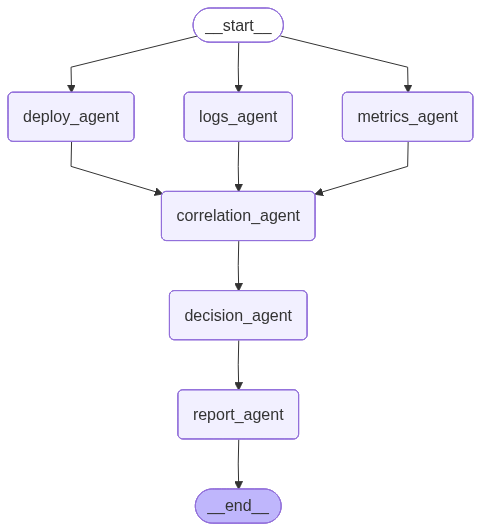
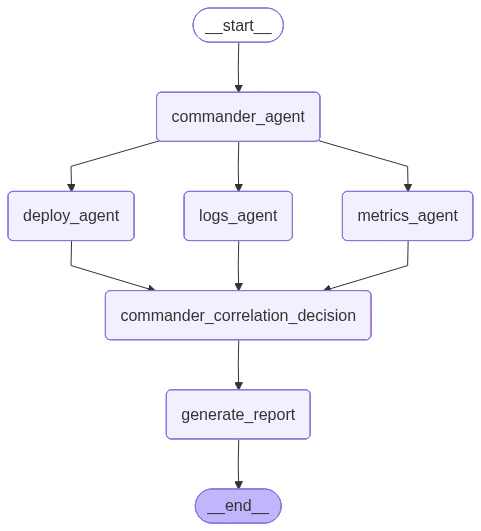
Final updates to agents, graph, and documentation

diff --git a/app/graph.py b/app/graph.py
@@ -20,6 +20,7 @@ class IncidentState(BaseModel):
     logs_data: List[Dict[str, Any]]
     deploy_data: List[Dict[str, Any]]
     alerts_data: List[Dict[str, Any]]
+    investigation_plan: str = ""
     metrics_analysis: str = ""
     logs_analysis: str = ""
     deploy_analysis: str = ""
@@ -29,33 +30,56 @@ class IncidentState(BaseModel):
     report: str = ""
 
 # Agent functions
-def start_analysis(state: IncidentState) -> IncidentState:
-    """Entry point that starts parallel analysis"""
-    return state
-
-def metrics_agent(state: IncidentState) -> IncidentState:
-    """Analyze metrics data using LLM"""
-    prompt = f"""
-    Analyze the following metrics data for anomalies. Look for spikes in latency, high CPU/memory usage, or drops in requests per second.
-    Data: {state.metrics_data}
+def commander_agent(state: IncidentState) -> IncidentState:
+    """Commander Agent: The Orchestrator - Evaluates alerts, develops plan, coordinates investigation"""
+    alerts = state.alerts_data
     
-    Provide a detailed analysis of any anomalies found, including timestamps and severity.
-    If no anomalies, state that the metrics appear normal.
+    # Evaluate alerts and develop investigation plan
+    critical_alerts = [a for a in alerts if a.get('severity') == 'critical']
+    high_alerts = [a for a in alerts if a.get('severity') == 'high']
+    
+    if critical_alerts:
+        priority = "CRITICAL - Full investigation required"
+        focus = "All systems: metrics, logs, and deployments"
+    elif high_alerts:
+        priority = "HIGH - Targeted investigation needed"
+        alert_types = set(a.get('alert_type', '') for a in high_alerts)
+        if 'db_timeout' in alert_types or 'latency_spike' in alert_types:
+            focus = "Focus on database performance, logs, and recent deployments"
+        else:
+            focus = "Focus on metrics and logs"
+    else:
+        priority = "MEDIUM - Monitor and investigate metrics"
+        focus = "Primary focus on performance metrics"
+    
+    investigation_plan = f"""
+    INVESTIGATION PLAN:
+    Priority Level: {priority}
+    Focus Areas: {focus}
+    Alert Timeline: {', '.join([f"{a.get('timestamp', '')}: {a.get('description', '')}" for a in sorted(alerts, key=lambda x: x.get('timestamp', ''))])}
+    
+    Coordinating specialized investigators based on alert analysis.
     """
     
-    response = llm.invoke(prompt)
     state_data = state.dict()
-    state_data["metrics_analysis"] = response.content
+    state_data["investigation_plan"] = investigation_plan
     return IncidentState(**state_data)
 
 def logs_agent(state: IncidentState) -> IncidentState:
-    """Analyze logs data using LLM"""
+    """Logs Agent: The Forensic Expert - Deep-scans logs for stack traces and error correlations"""
     prompt = f"""
-    Analyze the following log entries for errors, warnings, and patterns that might indicate issues.
-    Data: {state.logs_data}
+    You are the Logs Agent - Forensic Expert. Deep-scan these application logs to find specific stack traces and error correlations.
     
-    Identify any error patterns, critical issues, or sequences that suggest problems.
-    Focus on ERROR and CRITICAL level logs, and look for repeated issues.
+    Logs Data: {state.logs_data}
+    
+    Your analysis should include:
+    1. Error patterns and frequencies
+    2. Stack traces or detailed error information
+    3. Correlations between different error types
+    4. Timeline of error progression
+    5. Any repeated or escalating issues
+    
+    Focus on ERROR and CRITICAL level entries, and identify sequences that suggest problems.
     """
     
     response = llm.invoke(prompt)
@@ -63,14 +87,45 @@ def logs_agent(state: IncidentState) -> IncidentState:
     state_data["logs_analysis"] = response.content
     return IncidentState(**state_data)
 
-def deploy_agent(state: IncidentState) -> IncidentState:
-    """Analyze deployment data using LLM"""
+def metrics_agent(state: IncidentState) -> IncidentState:
+    """Metrics Agent: The Telemetry Analyst - Monitors performance counters for anomalies"""
     prompt = f"""
-    Analyze the following deployment history to identify recent changes that might be related to issues.
-    Data: {state.deploy_data}
+    You are the Metrics Agent - Telemetry Analyst. Monitor these performance counters to spot anomalies.
     
-    Look for recent deployments, configuration changes, or version updates that could impact system stability.
-    Consider the timing of deployments relative to potential incidents.
+    Metrics Data: {state.metrics_data}
+    
+    Analyze for:
+    1. Latency spikes (p99 patterns)
+    2. High CPU usage patterns
+    3. Memory leak indicators
+    4. Request rate anomalies
+    5. Performance degradation trends
+    
+    Provide detailed analysis of any anomalies found, including timestamps, severity, and potential causes.
+    Calculate baselines and identify deviations from normal patterns.
+    """
+    
+    response = llm.invoke(prompt)
+    state_data = state.dict()
+    state_data["metrics_analysis"] = response.content
+    return IncidentState(**state_data)
+
+def deploy_agent(state: IncidentState) -> IncidentState:
+    """Deploy Intelligence Agent: The Historian - Maps errors against deployment timeline"""
+    prompt = f"""
+    You are the Deploy Intelligence Agent - Historian. Map real-time errors against the timeline of CI/CD deployments.
+    
+    Deployment Data: {state.deploy_data}
+    Alert Timeline: {state.alerts_data}
+    
+    Your analysis should:
+    1. Identify recent deployments and configuration changes
+    2. Correlate error occurrences with deployment timing
+    3. Map specific errors to deployment changes
+    4. Identify potential causal relationships
+    5. Flag deployments that may have introduced issues
+    
+    Consider the chronological relationship between deployments and subsequent errors.
     """
     
     response = llm.invoke(prompt)
@@ -78,78 +133,68 @@ def deploy_agent(state: IncidentState) -> IncidentState:
     state_data["deploy_analysis"] = response.content
     return IncidentState(**state_data)
 
-def correlation_agent(state: IncidentState) -> IncidentState:
-    """Correlate findings from all agents using LLM"""
+def commander_correlation_decision(state: IncidentState) -> IncidentState:
+    """Commander Agent: Correlate findings and make final decisions"""
     prompt = f"""
-    Correlate the following analyses to identify relationships between metrics anomalies, log errors, and recent deployments:
+    You are the Commander Agent completing the investigation. Correlate all findings and make final decisions.
     
-    Metrics Analysis: {state.metrics_analysis}
-    Logs Analysis: {state.logs_analysis}
-    Deployment Analysis: {state.deploy_analysis}
+    Investigation Plan: {state.investigation_plan}
     
-    Determine if these issues are related and what might be the common cause.
-    Provide evidence for your correlation assessment.
-    """
+    Specialized Agent Reports:
+    - Metrics Analysis: {state.metrics_analysis}
+    - Logs Analysis: {state.logs_analysis}
+    - Deploy Analysis: {state.deploy_analysis}
     
-    response = llm.invoke(prompt)
-    state_data = state.dict()
-    state_data["correlation"] = response.content
-    return IncidentState(**state_data)
-
-def decision_agent(state: IncidentState) -> IncidentState:
-    """Make decisions and recommendations using LLM"""
-    prompt = f"""
-    Based on the correlation analysis, determine the root cause of the incident and recommend actions:
+    Your tasks:
+    1. CORRELATE findings across all agents to identify relationships
+    2. DETERMINE root cause based on evidence
+    3. PROVIDE specific recommendations and actions
+    4. ASSIGN confidence level (0-100%) to your assessment
+    5. IDENTIFY prevention measures
     
-    Correlation: {state.correlation}
-    
-    Provide:
-    1. Root cause analysis
-    2. Recommended immediate actions
-    3. Confidence level (0-100%) in your assessment
-    4. Any additional monitoring or preventive measures
-    
-    Format your response clearly with sections.
+    Structure your response with clear sections:
+    - Correlation Analysis
+    - Root Cause Determination  
+    - Recommended Actions
+    - Confidence Level
+    - Prevention Measures
     """
     
     response = llm.invoke(prompt)
     
-    # Parse confidence from response (simple extraction)
+    # Extract confidence from response
     content = response.content
     confidence = 0.0
-    if "confidence" in content.lower():
-        # Extract percentage
-        import re
-        match = re.search(r'(\d+)%', content)
-        if match:
-            confidence = float(match.group(1)) / 100
+    import re
+    match = re.search(r'(\d+)%', content)
+    if match:
+        confidence = float(match.group(1)) / 100
     
     state_data = state.dict()
+    state_data["correlation"] = "Correlation and decision analysis completed by Commander Agent"
     state_data["decision"] = response.content
     state_data["confidence"] = confidence
     return IncidentState(**state_data)
 
-def report_agent(state: IncidentState) -> IncidentState:
-    """Generate final incident report using LLM"""
+def generate_report(state: IncidentState) -> IncidentState:
+    """Generate final incident report"""
     prompt = f"""
-    Generate a comprehensive incident report based on all analyses:
+    Generate a comprehensive incident report based on the Commander Agent's complete investigation:
     
-    Metrics: {state.metrics_analysis}
-    Logs: {state.logs_analysis}
-    Deployments: {state.deploy_analysis}
-    Correlation: {state.correlation}
-    Decision: {state.decision}
-    Confidence: {state.confidence * 100}%
+    Investigation Overview: {state.investigation_plan}
+    Metrics Findings: {state.metrics_analysis}
+    Logs Findings: {state.logs_analysis}
+    Deployment Analysis: {state.deploy_analysis}
+    Commander Decision: {state.decision}
+    Confidence Level: {state.confidence * 100}%
     
-    Create a professional incident report including:
+    Create a professional incident report with:
     - Executive Summary
-    - Timeline of Events
+    - Investigation Timeline
     - Root Cause Analysis
     - Impact Assessment
     - Recommendations
     - Prevention Measures
-    
-    Format as a clear, structured report.
     """
     
     response = llm.invoke(prompt)
@@ -157,31 +202,34 @@ def report_agent(state: IncidentState) -> IncidentState:
     state_data["report"] = response.content
     return IncidentState(**state_data)
 
-# Build the graph
+# Build the graph with 4 agents
 def create_incident_graph():
     graph = StateGraph(IncidentState)
     
-    # Add nodes
-    graph.add_node("start_analysis", start_analysis)
-    graph.add_node("metrics_agent", metrics_agent)
+    # Add nodes - only 4 agents
+    graph.add_node("commander_agent", commander_agent)
     graph.add_node("logs_agent", logs_agent)
+    graph.add_node("metrics_agent", metrics_agent)
     graph.add_node("deploy_agent", deploy_agent)
-    graph.add_node("correlation_agent", correlation_agent)
-    graph.add_node("decision_agent", decision_agent)
-    graph.add_node("report_agent", report_agent)
+    graph.add_node("commander_correlation_decision", commander_correlation_decision)
+    graph.add_node("generate_report", generate_report)
 
-    # Define flow: start -> parallel analysis -> correlation -> decision -> report
-    graph.set_entry_point("start_analysis")
+    # Define flow: Commander starts -> parallel specialized agents -> Commander correlates/decides -> Report
+    graph.set_entry_point("commander_agent")
 
-    # Start all three agents in parallel
-    graph.add_edge("start_analysis", "metrics_agent")
-    graph.add_edge("start_analysis", "logs_agent")
-    graph.add_edge("start_analysis", "deploy_agent")
+    # Commander coordinates the three specialized agents in parallel
+    graph.add_edge("commander_agent", "logs_agent")
+    graph.add_edge("commander_agent", "metrics_agent")
+    graph.add_edge("commander_agent", "deploy_agent")
     
-    # Then decision and report
-    graph.add_edge("correlation_agent", "decision_agent")
-    graph.add_edge("decision_agent", "report_agent")
-    graph.add_edge("report_agent", END)
+    # All three agents feed back to Commander for correlation and decision
+    graph.add_edge("logs_agent", "commander_correlation_decision")
+    graph.add_edge("metrics_agent", "commander_correlation_decision")
+    graph.add_edge("deploy_agent", "commander_correlation_decision")
+    
+    # Final report generation
+    graph.add_edge("commander_correlation_decision", "generate_report")
+    graph.add_edge("generate_report", END)
     
     return graph.compile()
 

diff --git a/app/main.py b/app/main.py
@@ -45,6 +45,7 @@ async def handle_incident():
         # Return comprehensive results
         return {
             "status": "success",
+            "investigation_plan": final_state.investigation_plan,
             "analysis": {
                 "metrics_analysis": final_state.metrics_analysis,
                 "logs_analysis": final_state.logs_analysis,
